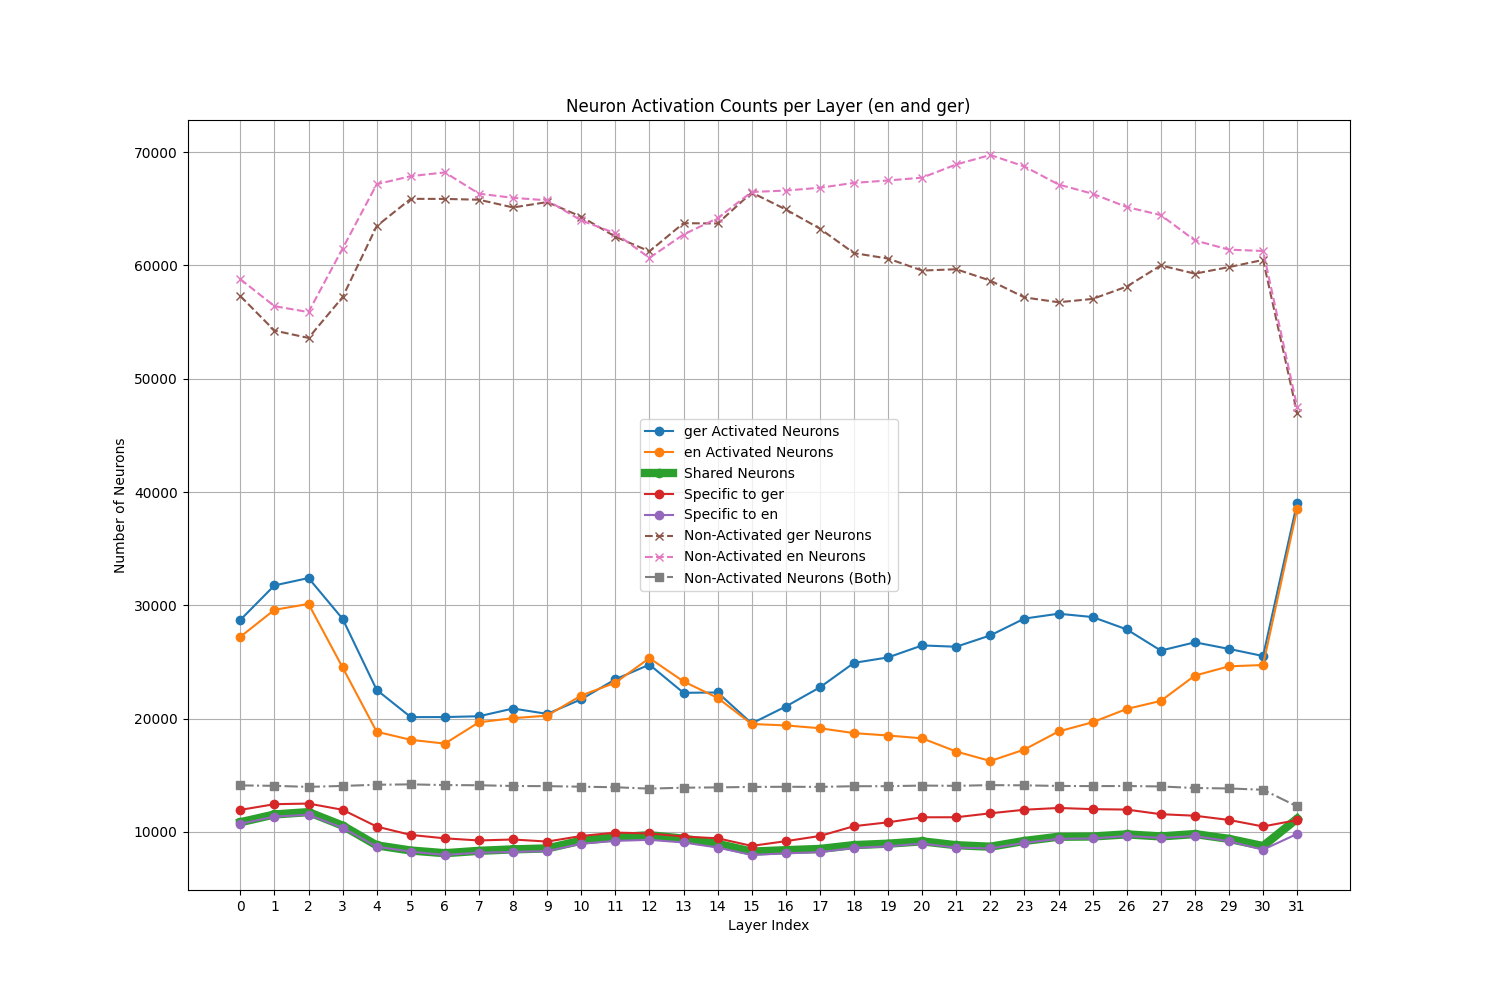
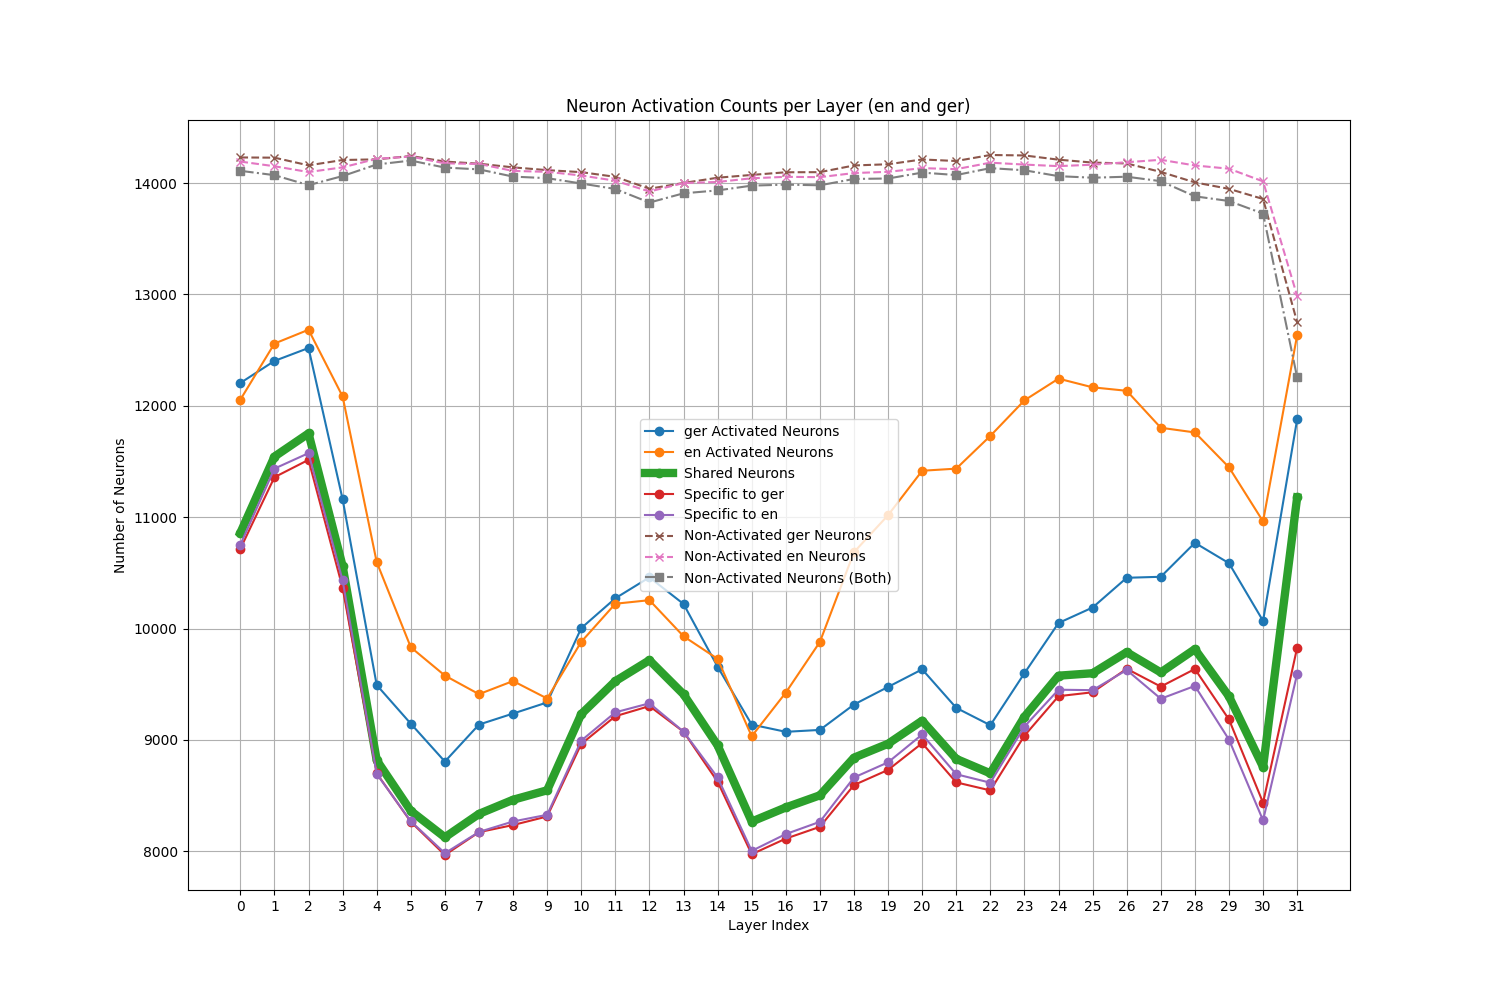
update/probing

diff --git a/activated_neuron/visualization_funcs.py b/activated_neuron/visualization_funcs.py
@@ -5,6 +5,8 @@ sys.path.append("/home/s2410121/proj_LA/activated_neuron/shared_neurons.py")
 
 import matplotlib.pyplot as plt
 
+nums_of_neurons_llama3 = 14336 # all neurons of LLaMA-3-8B(inside MLP)
+
 def visualize_neurons_with_line_plot(
                                     L1,
                                     L2,
@@ -32,14 +34,18 @@ def visualize_neurons_with_line_plot(
 
     # 各層におけるニューロンの活性化数をカウント
     for layer_idx in range(num_layers):
-        L2_counts[layer_idx] = len(activated_neurons_L2[layer_idx][1])  # 日本語のニューロン数
-        L1_counts[layer_idx] = len(activated_neurons_L1[layer_idx][1])    # 英語のニューロン数
-        shared_counts[layer_idx] = len(shared_neurons[layer_idx][1])                # 共有ニューロン数
-        specific_L2_counts[layer_idx] = len(specific_neurons_L2[layer_idx][1])  # 日本語特有のニューロン数
-        specific_L1_counts[layer_idx] = len(specific_neurons_L1[layer_idx][1])    # 英語特有のニューロン数
-        non_activated_L2_counts[layer_idx] = len(non_activated_neurons_L2[layer_idx][1])  # 日本語の非活性化ニューロン数
-        non_activated_L1_counts[layer_idx] = len(non_activated_neurons_L1[layer_idx][1])    # 英語の非活性化ニューロン数
-        non_activated_all_counts[layer_idx] = len(non_activated_neurons_all[layer_idx][1])  # 両言語の非活性化共通ニューロン数
+        # activated_neurons_L1 と activated_neurons_L2 から、各層のユニークなニューロン数を取得
+        L1_neurons_set = set(activated_neurons_L1[layer_idx][1][:, 2])  # 第3列がニューロンインデックス
+        L2_neurons_set = set(activated_neurons_L2[layer_idx][1][:, 2])
+
+        L2_counts[layer_idx] = len(L2_neurons_set)  # 日本語のニューロン数
+        L1_counts[layer_idx] = len(L1_neurons_set)  # 英語のニューロン数
+        shared_counts[layer_idx] = len(set(shared_neurons[layer_idx][1].flatten()))  # 共有ニューロン数
+        specific_L2_counts[layer_idx] = len(set(specific_neurons_L2[layer_idx][1].flatten()))  # 日本語特有のニューロン数
+        specific_L1_counts[layer_idx] = len(set(specific_neurons_L1[layer_idx][1].flatten()))  # 英語特有のニューロン数
+        non_activated_L2_counts[layer_idx] = len(set(non_activated_neurons_L2[layer_idx][1].flatten()))  # 日本語の非活性化ニューロン数
+        non_activated_L1_counts[layer_idx] = len(set(non_activated_neurons_L1[layer_idx][1].flatten()))  # 英語の非活性化ニューロン数
+        non_activated_all_counts[layer_idx] = len(set(non_activated_neurons_all[layer_idx][1].flatten()))  # 両言語の非活性化共通ニューロン数
 
     # プロット
     plt.figure(figsize=(15, 10))
@@ -62,6 +68,138 @@ def visualize_neurons_with_line_plot(
     # グラフの保存
     plt.savefig(f'/home/s2410121/proj_LA/activated_neuron/images/activated_neuron_{L1}_{L2}.png')
     plt.close()
+
+def visualize_neurons_with_line_plot_with_percent(
+                                    L1,
+                                    L2,
+                                    activated_neurons_L1,
+                                    activated_neurons_L2,
+                                    non_activated_neurons_L1,
+                                    non_activated_neurons_L2,
+                                    shared_neurons,
+                                    specific_neurons_L1,
+                                    specific_neurons_L2,
+                                    non_activated_neurons_all
+                                    ):
+    # 層の数
+    num_layers = 32
+
+    # 各層のニューロンの活性化を集計するためのリスト（絶対数ではなく%で計算）
+    L2_counts = [0] * num_layers
+    L1_counts = [0] * num_layers
+    shared_counts = [0] * num_layers
+    specific_L2_counts = [0] * num_layers
+    specific_L1_counts = [0] * num_layers
+    non_activated_L2_counts = [0] * num_layers  # 日本語の非活性化ニューロン
+    non_activated_L1_counts = [0] * num_layers  # 英語の非活性化ニューロン
+    non_activated_all_counts = [0] * num_layers  # 両言語の非活性化共通ニューロン
+
+    # 各層におけるニューロンの活性化数を計算
+    for layer_idx in range(num_layers):
+        # activated_neurons_L1 と activated_neurons_L2 から、各層のユニークなニューロン数を取得
+        L1_neurons_set = set(activated_neurons_L1[layer_idx][1][:, 2])  # 第3列がニューロンインデックス
+        L2_neurons_set = set(activated_neurons_L2[layer_idx][1][:, 2])
+
+        L2_counts[layer_idx] = len(L2_neurons_set) / nums_of_neurons_llama3 * 100  # 日本語のニューロン数の割合
+        L1_counts[layer_idx] = len(L1_neurons_set) / nums_of_neurons_llama3 * 100  # 英語のニューロン数の割合
+        shared_counts[layer_idx] = len(set(shared_neurons[layer_idx][1].flatten())) / nums_of_neurons_llama3 * 100  # 共有ニューロン数の割合
+        specific_L2_counts[layer_idx] = len(set(specific_neurons_L2[layer_idx][1].flatten())) / nums_of_neurons_llama3 * 100  # 日本語特有のニューロン数の割合
+        specific_L1_counts[layer_idx] = len(set(specific_neurons_L1[layer_idx][1].flatten())) / nums_of_neurons_llama3 * 100  # 英語特有のニューロン数の割合
+        non_activated_L2_counts[layer_idx] = len(set(non_activated_neurons_L2[layer_idx][1].flatten())) / nums_of_neurons_llama3 * 100  # 日本語の非活性化ニューロン数の割合
+        non_activated_L1_counts[layer_idx] = len(set(non_activated_neurons_L1[layer_idx][1].flatten())) / nums_of_neurons_llama3 * 100  # 英語の非活性化ニューロン数の割合
+        non_activated_all_counts[layer_idx] = len(set(non_activated_neurons_all[layer_idx][1].flatten())) / nums_of_neurons_llama3 * 100  # 両言語の非活性化共通ニューロン数の割合
+
+    # プロット
+    plt.figure(figsize=(15, 10))
+    plt.plot(range(num_layers), L2_counts, label=f'{L2} Activated Neurons (%)', marker='o')
+    plt.plot(range(num_layers), L1_counts, label=f'{L1} Activated Neurons (%)', marker='o')
+    plt.plot(range(num_layers), shared_counts, label='Shared Neurons (%)', marker='o', linewidth=6)
+    plt.plot(range(num_layers), specific_L2_counts, label=f'Specific to {L2} (%)', marker='o')
+    plt.plot(range(num_layers), specific_L1_counts, label=f'Specific to {L1} (%)', marker='o')
+    plt.plot(range(num_layers), non_activated_L2_counts, label=f'Non-Activated {L2} Neurons (%)', marker='x', linestyle='--')
+    plt.plot(range(num_layers), non_activated_L1_counts, label=f'Non-Activated {L1} Neurons (%)', marker='x', linestyle='--')
+    plt.plot(range(num_layers), non_activated_all_counts, label='Non-Activated Neurons (Both) (%)', marker='s', linestyle='-.')
+
+    plt.title(f'Neuron Activation Percentages per Layer ({L1} and {L2})')
+    plt.xlabel('Layer Index')
+    plt.ylabel('Percentage of Neurons (%)')
+    plt.xticks(range(num_layers))
+    plt.legend()
+    plt.grid()
+
+    # グラフの保存
+    plt.savefig(f'/home/s2410121/proj_LA/activated_neuron/images/activated_neuron_{L1}_{L2}_percentage.png')
+    plt.close()
+
+# def visualize_neurons_with_line_plot_with_subplots(
+#                                     L1,
+#                                     L2,
+#                                     activated_neurons_L1,
+#                                     activated_neurons_L2,
+#                                     non_activated_neurons_L1,
+#                                     non_activated_neurons_L2,
+#                                     shared_neurons,
+#                                     specific_neurons_L1,
+#                                     specific_neurons_L2,
+#                                     non_activated_neurons_all
+#                                     ):
+#     # 層の数
+#     num_layers = 32
+
+#     # 各層のニューロンの活性化を集計するためのリスト
+#     L2_counts = [0] * num_layers
+#     L1_counts = [0] * num_layers
+#     shared_counts = [0] * num_layers
+#     specific_L2_counts = [0] * num_layers
+#     specific_L1_counts = [0] * num_layers
+#     non_activated_L2_counts = [0] * num_layers  # 日本語の非活性化ニューロン
+#     non_activated_L1_counts = [0] * num_layers  # 英語の非活性化ニューロン
+#     non_activated_all_counts = [0] * num_layers  # 両言語の非活性化共通ニューロン
+
+#     # 各層におけるニューロンの活性化数をカウント
+#     for layer_idx in range(num_layers):
+#         # activated_neurons_L1 と activated_neurons_L2 から、各層のユニークなニューロン数を取得
+#         L1_neurons_set = set(activated_neurons_L1[layer_idx][1][:, 2])  # 第3列がニューロンインデックス
+#         L2_neurons_set = set(activated_neurons_L2[layer_idx][1][:, 2])
+
+#         L2_counts[layer_idx] = len(L2_neurons_set)  # 日本語のニューロン数
+#         L1_counts[layer_idx] = len(L1_neurons_set)  # 英語のニューロン数
+#         shared_counts[layer_idx] = len(set(shared_neurons[layer_idx][1].flatten()))  # 共有ニューロン数
+#         specific_L2_counts[layer_idx] = len(set(specific_neurons_L2[layer_idx][1].flatten()))  # 日本語特有のニューロン数
+#         specific_L1_counts[layer_idx] = len(set(specific_neurons_L1[layer_idx][1].flatten()))  # 英語特有のニューロン数
+#         non_activated_L2_counts[layer_idx] = len(set(non_activated_neurons_L2[layer_idx][1].flatten()))  # 日本語の非活性化ニューロン数
+#         non_activated_L1_counts[layer_idx] = len(set(non_activated_neurons_L1[layer_idx][1].flatten()))  # 英語の非活性化ニューロン数
+#         non_activated_all_counts[layer_idx] = len(set(non_activated_neurons_all[layer_idx][1].flatten()))  # 両言語の非活性化共通ニューロン数
+
+#     # プロット
+#     fig, axs = plt.subplots(2, 1, figsize=(15, 12))
+
+#     # Activated Neuronsのプロット
+#     axs[0].plot(range(num_layers), L2_counts, label=f'{L2} Activated Neurons', marker='o')
+#     axs[0].plot(range(num_layers), L1_counts, label=f'{L1} Activated Neurons', marker='o')
+#     axs[0].plot(range(num_layers), shared_counts, label='Shared Neurons', marker='o', linewidth=6)
+#     axs[0].plot(range(num_layers), specific_L2_counts, label=f'Specific to {L2}', marker='o')
+#     axs[0].plot(range(num_layers), specific_L1_counts, label=f'Specific to {L1}', marker='o')
+#     axs[0].set_title(f'Activated Neuron Counts per Layer ({L1} and {L2})')
+#     axs[0].set_xlabel('Layer Index')
+#     axs[0].set_ylabel('Number of Neurons')
+#     axs[0].legend()
+#     axs[0].grid()
+
+#     # Non-Activated Neuronsのプロット
+#     axs[1].plot(range(num_layers), non_activated_L2_counts, label=f'Non-Activated {L2} Neurons', marker='x', linestyle='--')
+#     axs[1].plot(range(num_layers), non_activated_L1_counts, label=f'Non-Activated {L1} Neurons', marker='x', linestyle='--')
+#     axs[1].plot(range(num_layers), non_activated_all_counts, label='Non-Activated Neurons (Both)', marker='s', linestyle='-.')
+#     axs[1].set_title(f'Non-Activated Neuron Counts per Layer ({L1} and {L2})')
+#     axs[1].set_xlabel('Layer Index')
+#     axs[1].set_ylabel('Number of Neurons')
+#     axs[1].legend()
+#     axs[1].grid()
+
+#     # グラフの保存
+#     plt.tight_layout()
+#     plt.savefig(f'/home/s2410121/proj_LA/activated_neuron/images/activated_neuron_{L1}_{L2}.png')
+#     plt.close()
 
 if __name__ == "__main__":
     # visualize_neurons_with_line_plot(L1, "ja")

diff --git a/activated_neuron/neuron_detection.py b/activated_neuron/neuron_detection.py
@@ -31,6 +31,28 @@ for L2, model_name in model_names.items():
     model = AutoModelForCausalLM.from_pretrained(model_name).to("cuda")
 
     """ Tatoeba translation corpus """
+    # tatoeba_data = [
+    #     ("This is a test.", "이것은 테스트입니다."),  # ko
+    #     ("Hello.", "안녕하세요."),
+    #     ("Goodbye.", "안녕히 가세요."),
+    #     ("How are you?", "잘 지내세요?"),
+    #     ("This is a test.", "これはテストです。"),  # ja
+    #     ("Hello.", "こんにちは。"),
+    #     ("Goodbye.", "さようなら。"),
+    #     ("How are you?", "お元気ですか？"),
+    #     ("This is a test.", "Dies ist ein Test."),  # ger
+    #     ("Hello.", "Hallo."),
+    #     ("Goodbye.", "Auf Wiedersehen."),
+    #     ("How are you?", "Wie geht's?"),
+    #     ("This is a test.", "Dit is een test."),  # du
+    #     ("Hello.", "Hallo."),
+    #     ("Goodbye.", "Vaarwel."),
+    #     ("How are you?", "Hoe gaat het?"),
+    #     ("This is a test.", "Questo è un test."),  # ita
+    #     ("Hello.", "Ciao."),
+    #     ("Goodbye.", "Arrivederci."),
+    #     ("How are you?", "Come stai?"),
+    # ]
     # Dataset({
     #     features: ['id', 'translation'],
     #     num_rows: 208866
@@ -43,6 +65,10 @@ for L2, model_name in model_names.items():
 
     """ tracking neurons """
     neuron_detection_dict = neuron_detection_funcs.track_neurons_with_text_data(model, tokenizer, tatoeba_data)
+
+    # cacheの削除
+    # del model
+    # torch.cuda.empty_cache()
 
     activated_neurons_L1 = neuron_detection_dict["activated_neurons_L1"]
     activated_neurons_L2 = neuron_detection_dict["activated_neurons_L2"]
@@ -70,7 +96,7 @@ for L2, model_name in model_names.items():
 
 if __name__ == "__main__":
 
-    # for layer_idx, neurons in shared_neurons:
+    # for layer_idx, neurons in activated_neurons_L1:
     #     print(f"Layer {layer_idx}: Shared Neurons: {neurons}")
     print(f'len_of_nonactivated_neurons_L2: {len(non_activated_neurons_L2)}, len_of_non_activated_neurons_L1: {len(non_activated_neurons_L1)}')
-    print(f'non_activated_neurons_all: {len(non_activated_neurons_all)}')
+    print(f'non_activated_neurons_all: {non_activated_neurons_all}')
